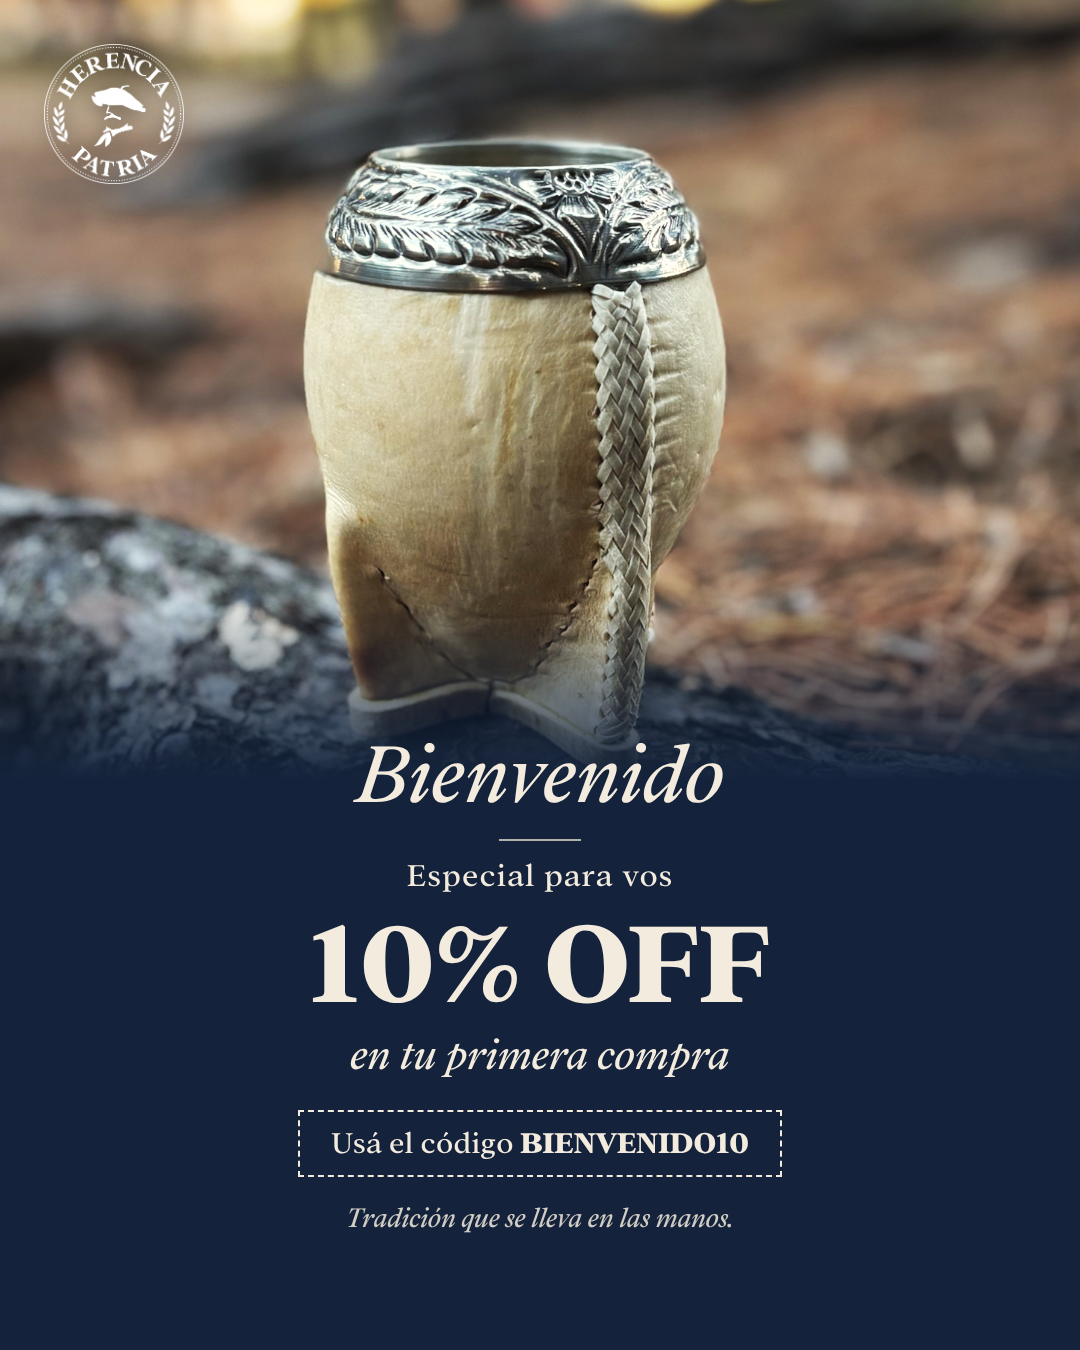
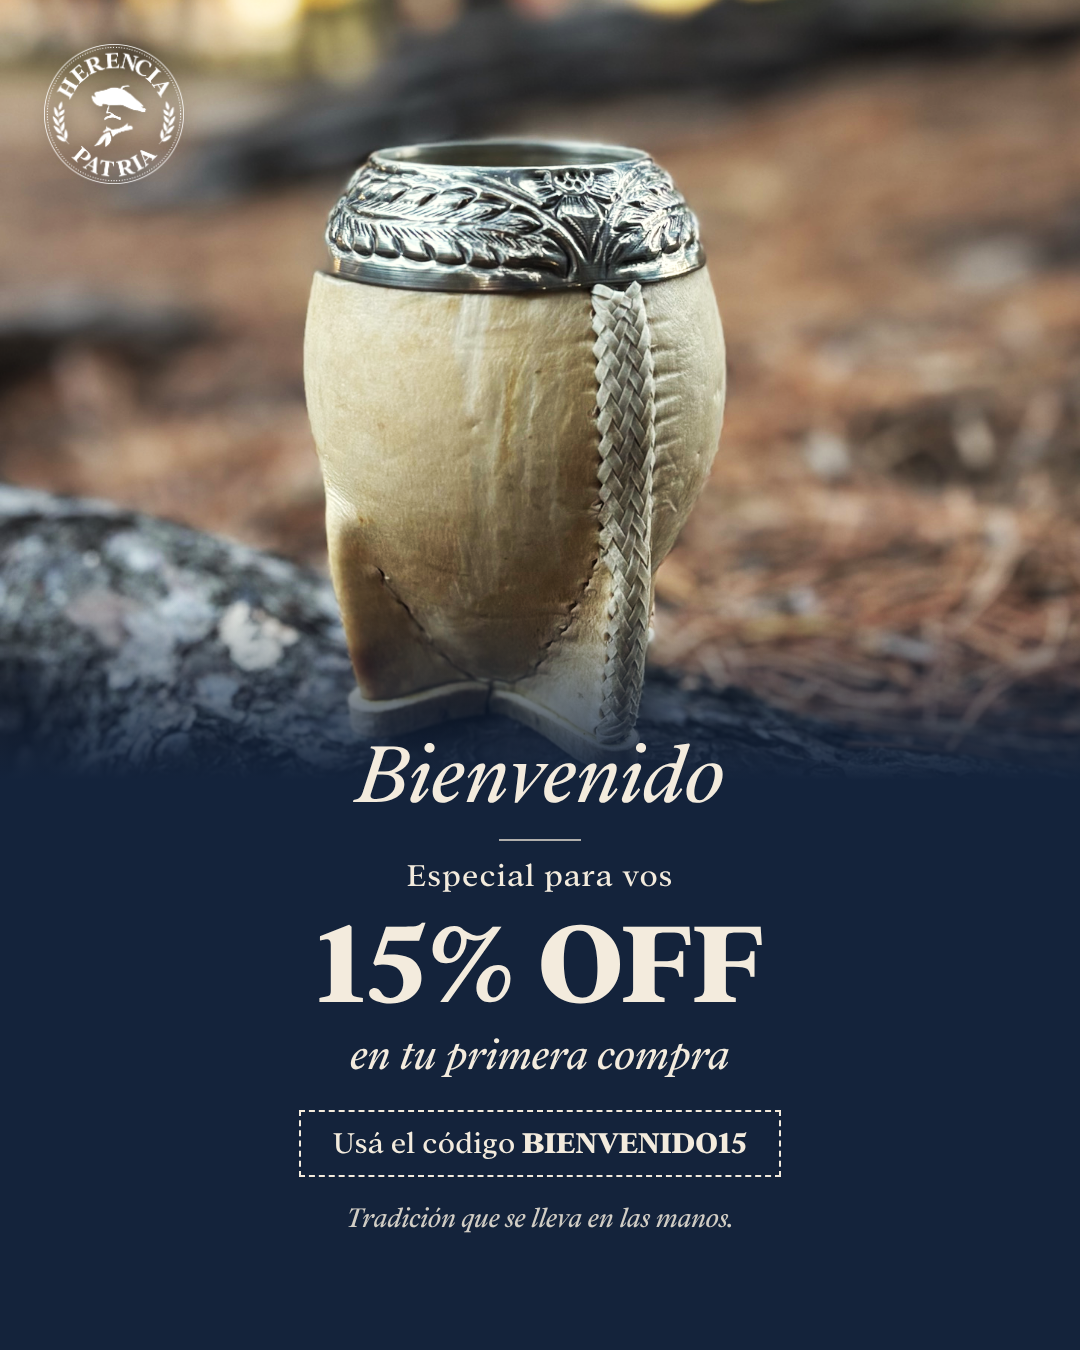
Pop-up de bienvenida con 15% OFF, en el tamaño de Tiendanube
Claude-Session: https://claude.ai/code/session_01W2uTfCUGokKMKtzDGAbmtd

Changed region(s): [[0.275, 0.6844, 0.7333, 0.7467], [0.3056, 0.84, 0.7028, 0.8711]]

diff --git a/src/HerenciaPatria/Bienvenida.tsx b/src/HerenciaPatria/Bienvenida.tsx
@@ -192,3 +192,83 @@ export const BienvenidaHorizontal: React.FC<Bienvenida> = (p) => (
     </AbsoluteFill>
   </AbsoluteFill>
 );
+
+// Imagen del pop-up promocional de Tiendanube (345x190, se exporta al triple
+// para que se vea nítida). El título, la descripción y el botón los pone la
+// tienda con sus campos; la imagen lleva la foto, el logo y el descuento.
+export const BienvenidaPopup: React.FC<Bienvenida> = ({
+  descuento,
+  detalle,
+}) => (
+  <AbsoluteFill style={{ backgroundColor: colors.azul }}>
+    <div
+      style={{
+        position: "absolute",
+        left: 0,
+        top: 0,
+        width: 470,
+        height: 570,
+        overflow: "hidden",
+      }}
+    >
+      <Img
+        src={staticFile("portada-raiz-feed.png")}
+        style={{
+          position: "absolute",
+          left: -40,
+          top: -420,
+          width: 560,
+          height: (560 * 2576) / 1450,
+        }}
+      />
+    </div>
+    <div
+      style={{
+        position: "absolute",
+        left: 370,
+        top: 0,
+        width: 100,
+        height: 570,
+        background: `linear-gradient(to right, rgba(20,35,59,0), ${colors.azul})`,
+      }}
+    />
+    <AbsoluteFill
+      style={{
+        left: 470,
+        width: 565,
+        alignItems: "center",
+        justifyContent: "center",
+        color: colors.crema,
+        fontFamily: fonts.serif,
+        textAlign: "center",
+        fontVariantNumeric: "lining-nums",
+      }}
+    >
+      <Img
+        src={staticFile("logo-herencia-patria.png")}
+        style={{ width: 120, height: 120 }}
+      />
+      <div
+        style={{
+          marginTop: 18,
+          fontStyle: "italic",
+          fontSize: 54,
+          lineHeight: 1,
+        }}
+      >
+        Bienvenido
+      </div>
+      <div
+        style={{
+          marginTop: 10,
+          fontWeight: 800,
+          fontSize: 104,
+          lineHeight: 1.05,
+        }}
+      >
+        {descuento}
+      </div>
+      <div style={{ fontStyle: "italic", fontSize: 42 }}>{detalle}</div>
+    </AbsoluteFill>
+  </AbsoluteFill>
+);

diff --git a/src/Root.tsx b/src/Root.tsx
@@ -10,6 +10,7 @@ import {
 import { MateNegro, MATE_NEGRO_FRAMES } from "./HerenciaPatria/MateNegro";
 import {
   BienvenidaHorizontal,
+  BienvenidaPopup,
   BienvenidaVertical,
 } from "./HerenciaPatria/Bienvenida";
 import { DonPatricio, episodioFrames } from "./HerenciaPatria/DonPatricio";
@@ -27,9 +28,9 @@ const tituloPortada = { top: 430, titleScale: 0.92 };
 // Descuento de bienvenida: a confirmar por la marca (porcentaje y código del
 // cupón creado en la tienda).
 const bienvenida = {
-  descuento: "10% OFF",
+  descuento: "15% OFF",
   detalle: "en tu primera compra",
-  codigo: "BIENVENIDO10",
+  codigo: "BIENVENIDO15",
 };
 
 export const RemotionRoot: React.FC = () => {
@@ -173,6 +174,14 @@ export const RemotionRoot: React.FC = () => {
         width={1080}
         height={1920}
         defaultProps={{ ep: agua }}
+      />
+      {/* npx remotion still HP-Bienvenida-Popup entregas/popup-tiendanube.png */}
+      <Still
+        id="HP-Bienvenida-Popup"
+        component={BienvenidaPopup}
+        width={1035}
+        height={570}
+        defaultProps={bienvenida}
       />
       {/* npx remotion still HP-Bienvenida-Vertical entregas/bienvenida-celular.png */}
       <Still
